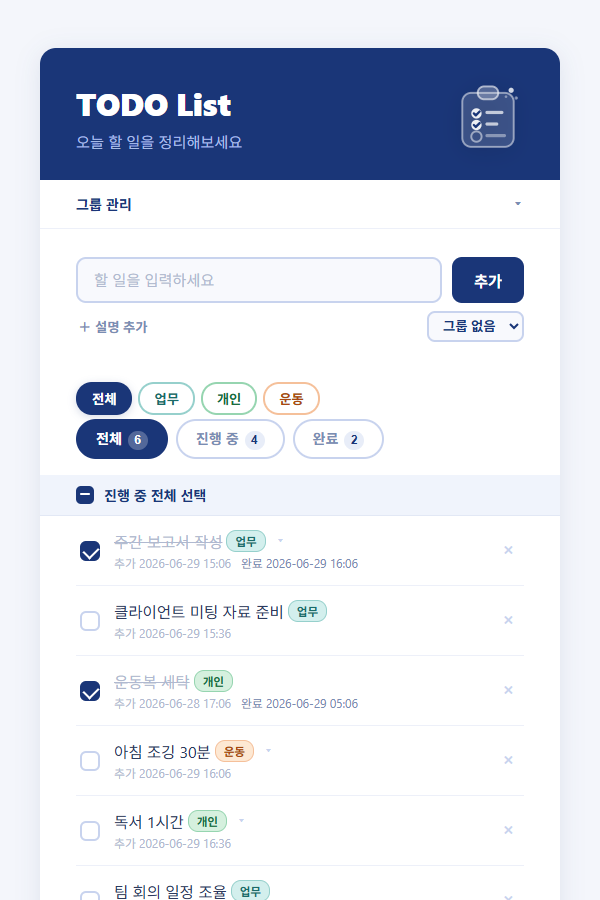
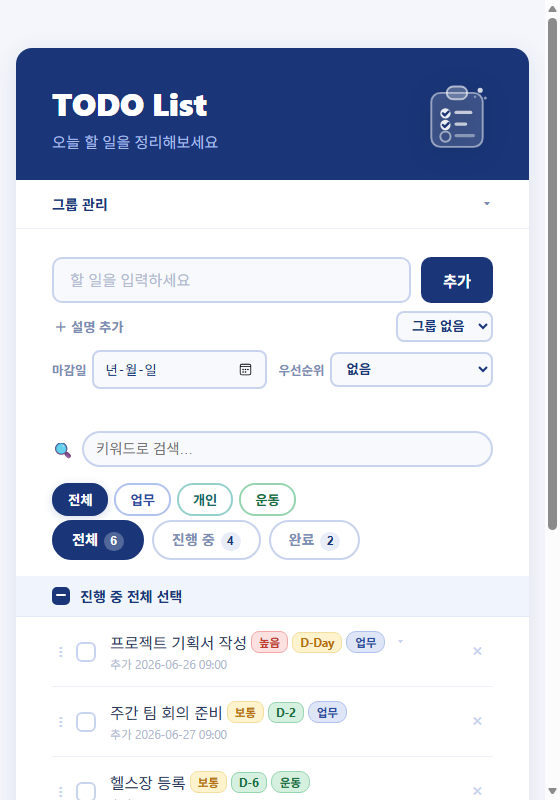
docs: update README with new screenshots and animated demo GIF

Changed region(s): [[0.0304, 0.0, 1.0, 1.0], [0.85, 0.5312, 0.8804, 0.5938]]

diff --git a/README.md b/README.md
@@ -5,15 +5,21 @@
 
 <br>
 
+## 데모
+
+![데모 애니메이션](assets/demo.gif)
+
+<br>
+
 ## 스크린샷
 
-| 메인 화면 | 완료 항목 보기 |
-|:---------:|:--------------:|
-| ![메인](assets/screenshot-main.png) | ![완료](assets/screenshot-completed.png) |
+| 메인 화면 | 키워드 검색 |
+|:---------:|:-----------:|
+| ![메인](assets/screenshot-main.png) | ![검색](assets/screenshot-search.png) |
 
-| 그룹 필터 | 빈 화면 |
-|:---------:|:-------:|
-| ![그룹필터](assets/screenshot-group.png) | ![빈화면](assets/screenshot-empty.png) |
+| 그룹 필터 | 완료 항목 |
+|:---------:|:---------:|
+| ![그룹필터](assets/screenshot-group.png) | ![완료](assets/screenshot-completed.png) |
 
 <br>
 
@@ -25,6 +31,17 @@
 - **완료 처리** — 체크박스 클릭 시 취소선 표시 및 완료 시간 자동 기록
 - **시간 기록** — 추가 시간 및 완료 시간을 `연-월-일 시:분` 형식으로 표시
 - **개별 삭제** — 각 항목 우측 `×` 버튼으로 삭제
+- **영구 저장** — 브라우저 localStorage에 자동 저장, 새로고침 후에도 유지
+
+### 마감일 & 우선순위
+- **마감일(D-day)** — 날짜 지정 시 `D-Day` / `D-N` / `D+N` 배지 자동 표시
+- **우선순위** — 높음 / 보통 / 낮음 설정, 우선순위 순으로 자동 정렬
+- **색상 배지** — 우선순위 및 D-day 상태에 따라 빨강/노랑/초록 구분
+
+### 검색
+- **실시간 키워드 검색** — 입력과 동시에 할 일 제목/설명 필터링
+- **텍스트 하이라이팅** — 일치하는 키워드를 노란색으로 강조 표시
+- **검색 초기화** — `×` 버튼으로 즉시 초기화
 
 ### 필터 & 뷰
 - **상태 탭** — 전체 / 진행 중 / 완료 탭 전환, 각 탭에 항목 수 뱃지 표시
@@ -36,6 +53,10 @@
 - **그룹 색상** — 그룹마다 8가지 색상 팔레트 자동 적용으로 시각적 구분
 - **그룹 지정** — 할 일 추가 시 드롭다운으로 그룹 선택
 - **그룹 삭제** — 그룹 삭제 시 해당 그룹의 할 일은 '그룹 없음'으로 처리
+
+### 드래그 앤 드롭
+- **순서 변경** — 좌측 핸들(`⋮⋮`)을 잡고 드래그하여 할 일 순서 자유롭게 변경
+- **시각적 피드백** — 드래그 중 반투명 효과 및 삽입 위치 표시
 
 ### UX
 - **빈 화면 안내** — 항목이 없을 때 일러스트와 안내 문구 표시
@@ -64,6 +85,6 @@ todo-list/
 ![CSS3](https://img.shields.io/badge/CSS3-1572B6?style=flat-square&logo=css3&logoColor=white)
 ![JavaScript](https://img.shields.io/badge/JavaScript-F7DF1E?style=flat-square&logo=javascript&logoColor=black)
 
-- **HTML5** — 시맨틱 마크업
+- **HTML5** — 시맨틱 마크업, Drag & Drop API
 - **CSS3** — Flexbox 레이아웃, 커스텀 체크박스, CSS 트랜지션
-- **JavaScript (Vanilla)** — 외부 라이브러리 없이 순수 JS로 구현
+- **JavaScript (Vanilla)** — 외부 라이브러리 없이 순수 JS로 구현, localStorage 활용